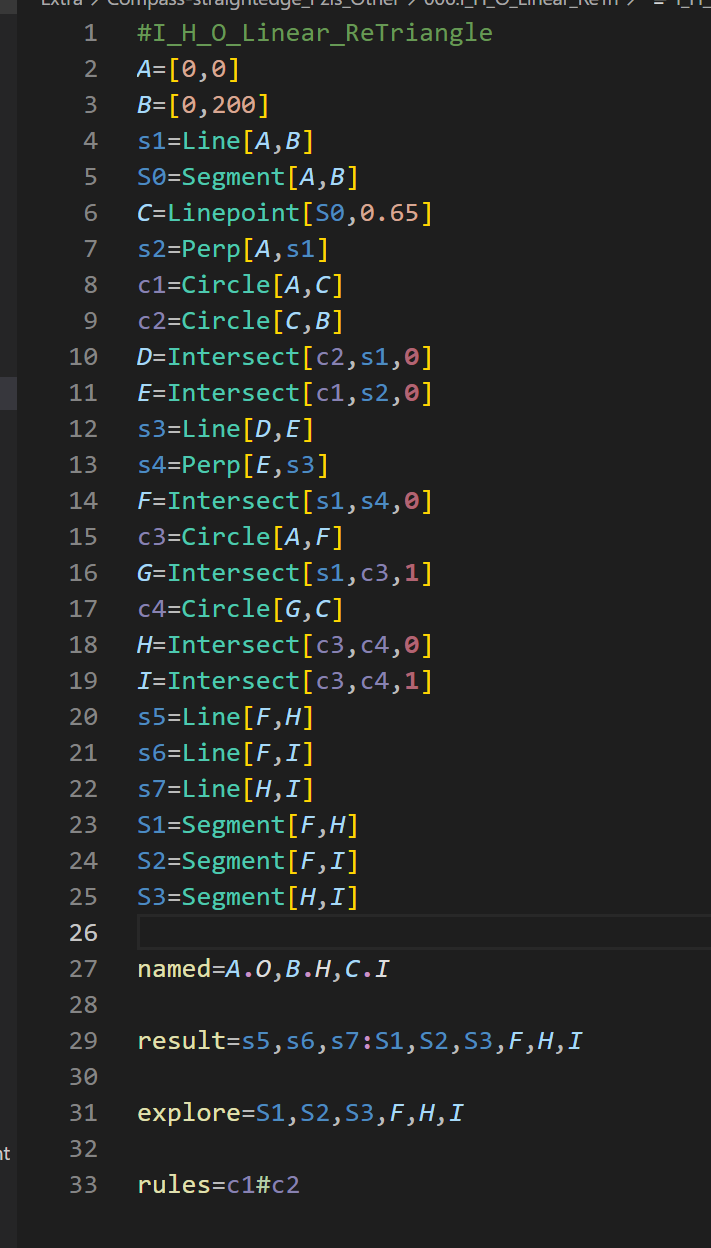
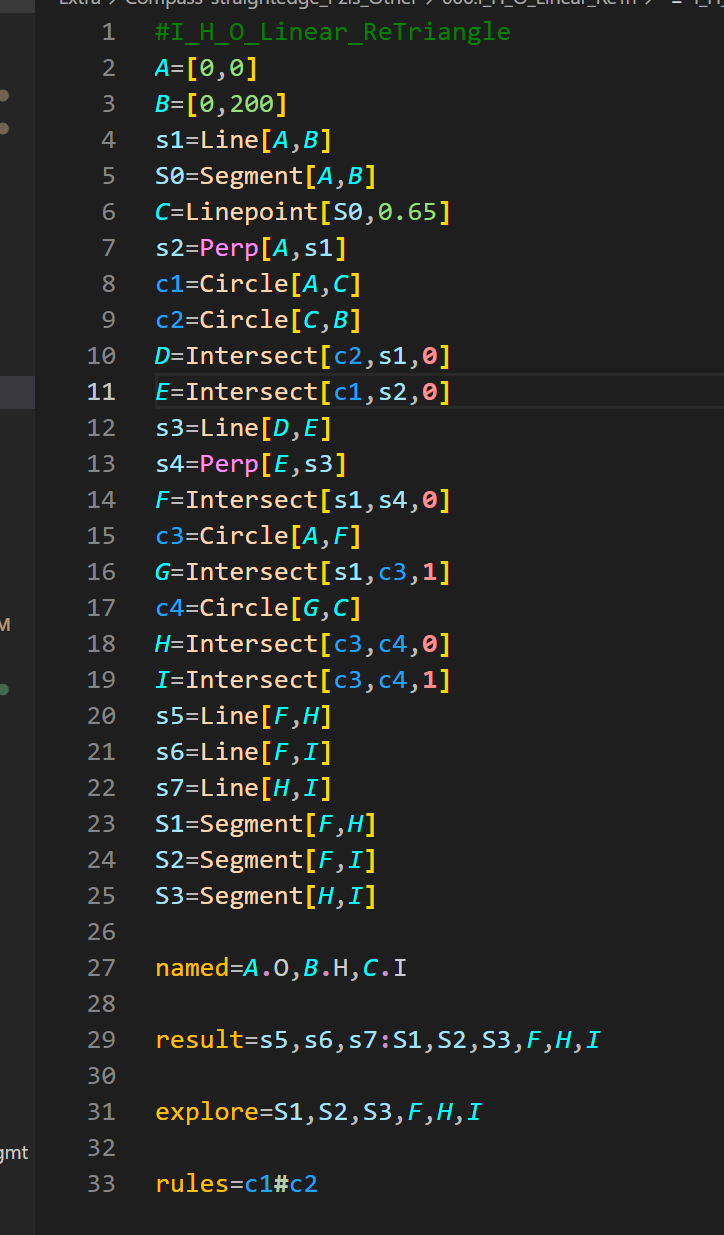
Upd
Mdf color scheme
0.3.0 (

diff --git a/README.md b/README.md
@@ -8,7 +8,7 @@ A multifunctional extension pack for gmt files of the game Euclidea.
 
 Geometric figures(points, lines, circles, names)
 
-Constructional functions(like 'Line' and 'Circle')
+Constructional functions(like 'Line' and 'Circle', basic and advanced)
 
 Numbers(values)
 
@@ -16,7 +16,7 @@ Arguments(in the functions 'Intersect', 'EdgePoint' and 'Tangent')
 
 Level setting variables(like 'initial', 'result' and 'explore')
 
-Connecting symbols(':' and '.')
+Connecting symbols(':', '.' and '|')
 
 Operating symbols('#', '/', '<' and '>')
 

diff --git a/CHANGELOG.md b/CHANGELOG.md
@@ -1,0 +1,11 @@
+## v0.3.0
+
+Supporting syntax highlighting styles under personalized settings
+
+## v0.2.0
+
+Add basic snippets
+
+## v0.1.0
+
+Released initial version
